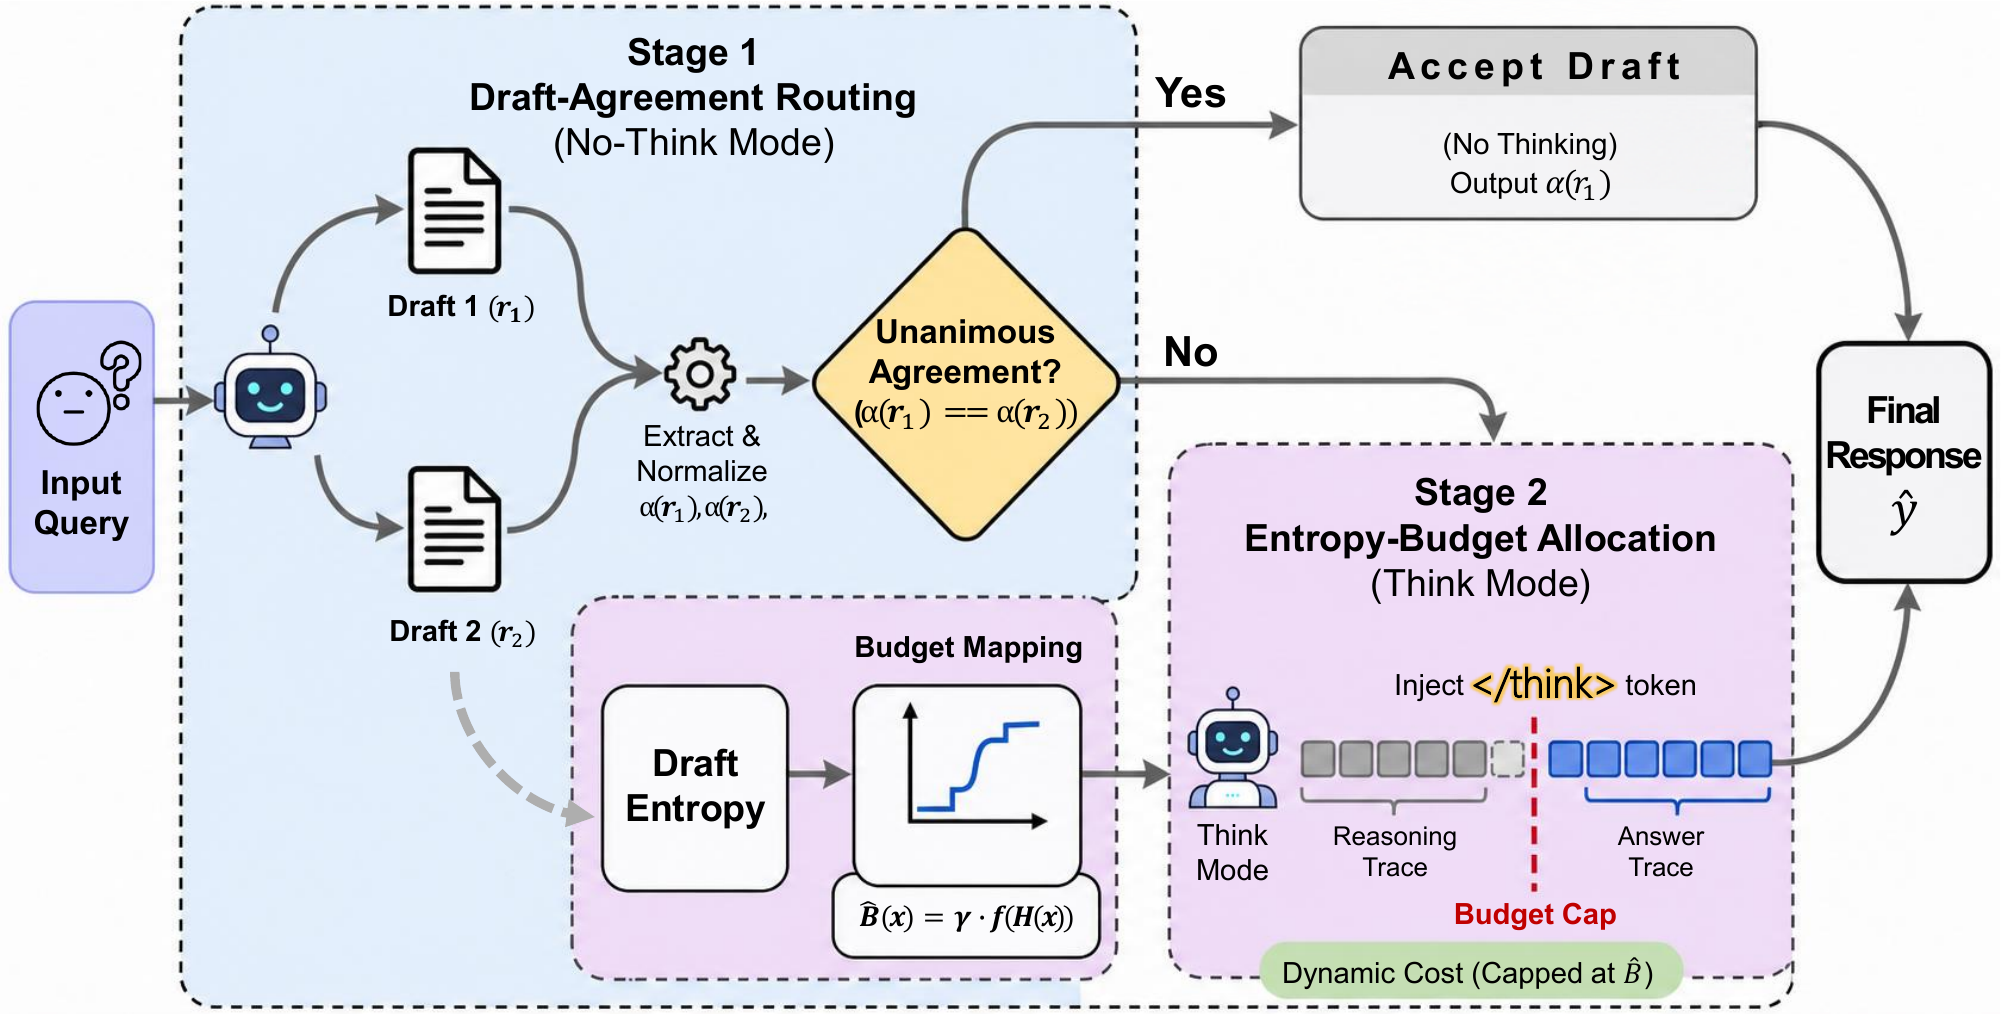
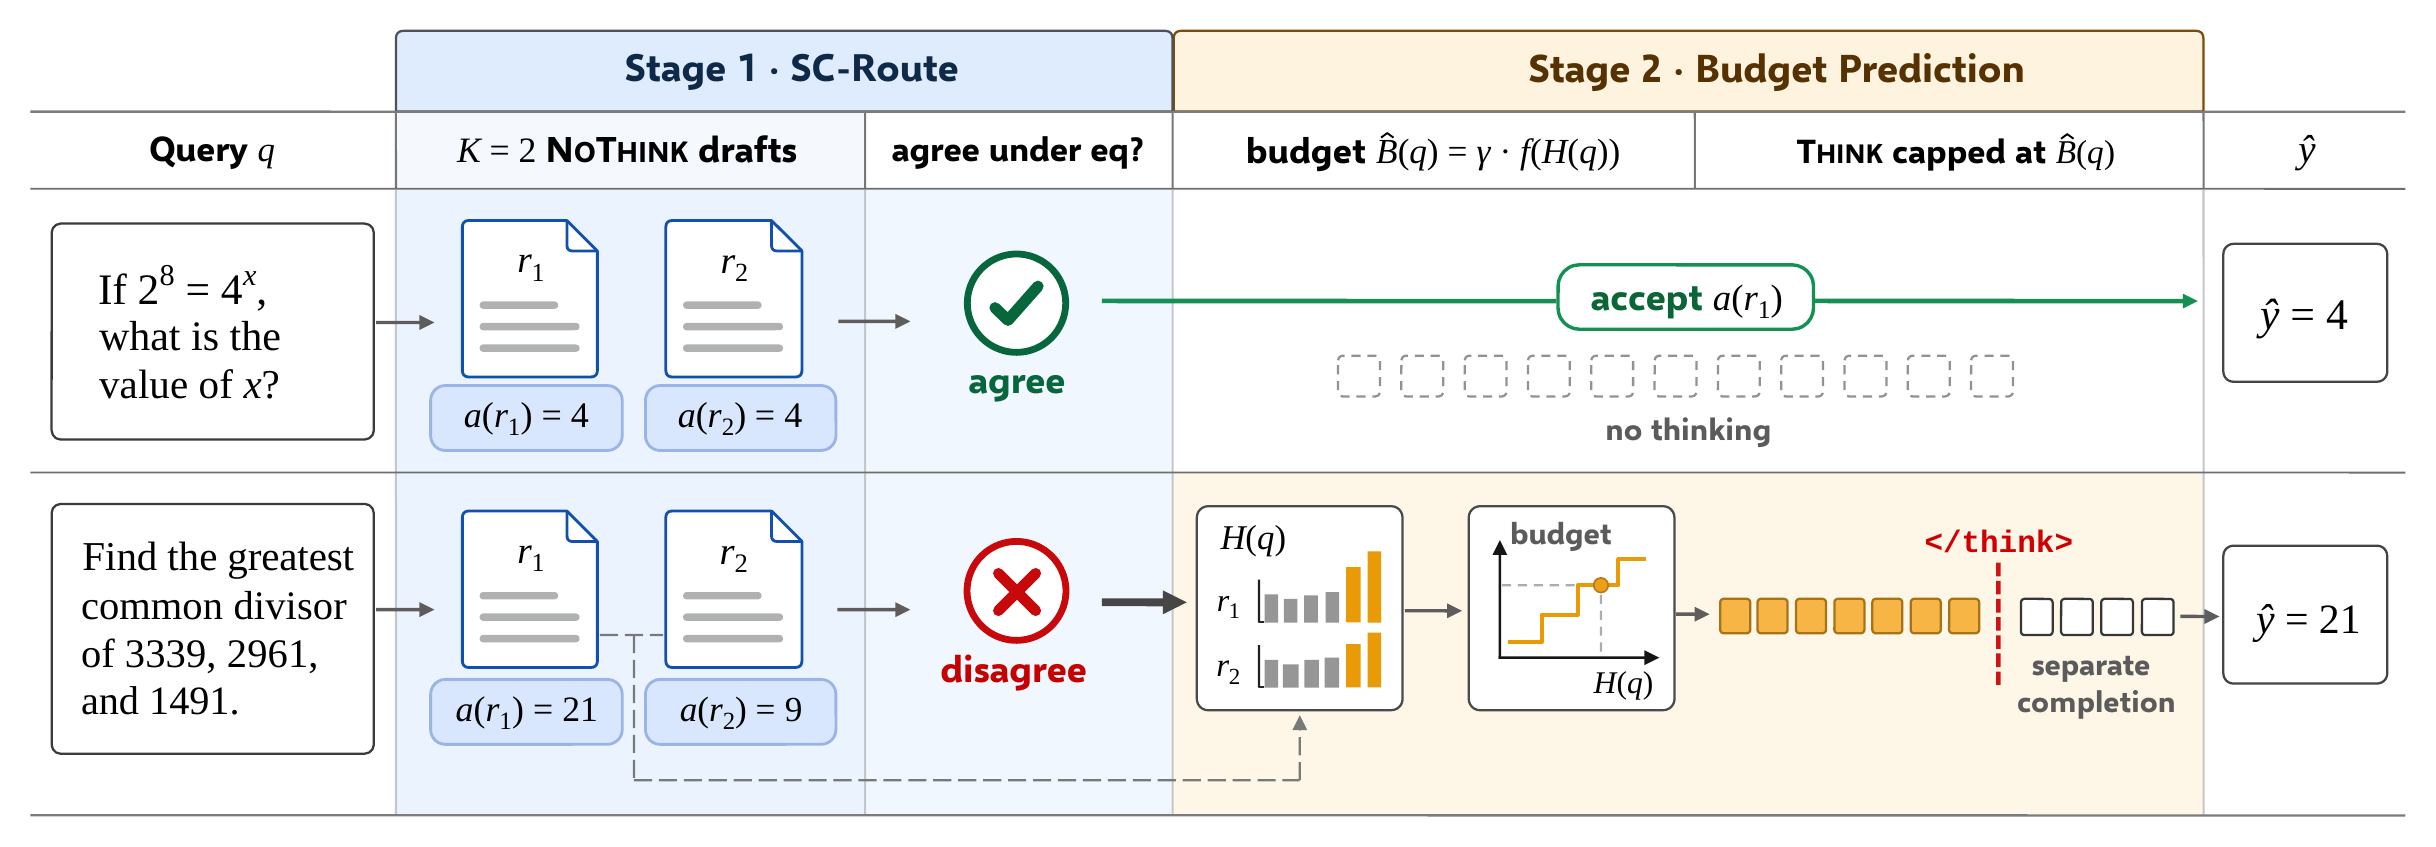
README: update framework figure to the EMNLP 2026 version

diff --git a/README.md b/README.md
@@ -11,7 +11,7 @@
 [![Python 3.9+](https://img.shields.io/badge/python-3.9+-blue.svg)](https://www.python.org/)
 [![Stars](https://img.shields.io/github/stars/js-lee-AI/DART?style=social)](https://github.com/js-lee-AI/DART/stargazers)
 
-<img src="assets/framework.png" width="88%" alt="DART framework" />
+<img src="assets/framework.png" width="100%" alt="DART framework" />
 
 <b>Official implementation of the <a href="https://2026.emnlp.org/">Findings of EMNLP 2026</a> paper.</b>
 
